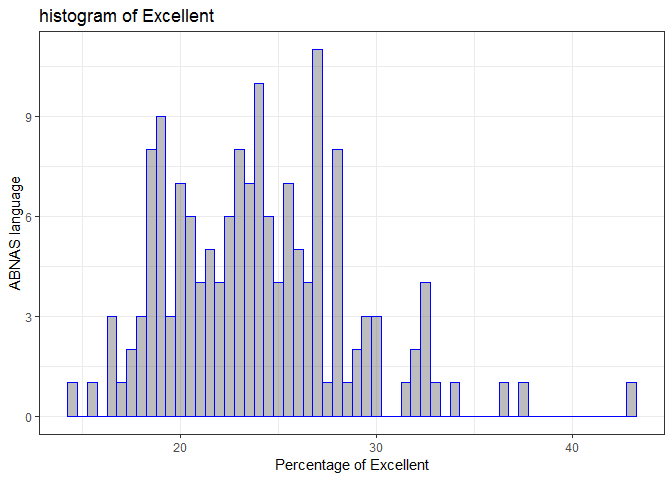
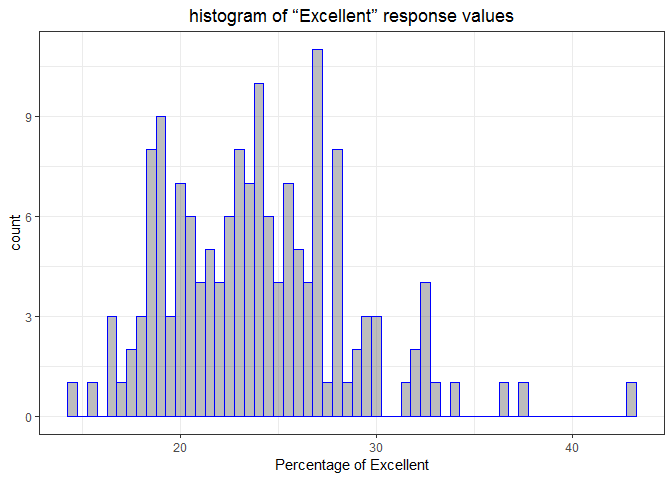
made some changes to the plot in problem 3.

Changed region(s): [[0.0625, 0.0, 0.7812, 0.0625], [0.0, 0.375, 0.0312, 0.5938]]

diff --git a/p8105_hw2_hh2767.md b/p8105_hw2_hh2767.md
@@ -123,12 +123,20 @@ pptn_2016 = readxl::read_excel(".\\data\\HealthyHarborWaterWheelTotals2017-9-26.
   filter(!is.na(x_1)) %>% 
   mutate(year = 2016)
 
-pptn = bind_rows(pptn_2016, pptn_2017)
+pptn_2018 = readxl::read_excel(".\\data\\HealthyHarborWaterWheelTotals2018-7-28.xlsx", sheet = "2018 Precipitation") %>% 
+  janitor::clean_names() %>% 
+  filter(!is.na(precipitation_in)) %>% 
+  filter(!is.na(x_1)) %>% 
+  mutate(year = 2018)
+
+pptn = bind_rows(pptn_2016, pptn_2017, pptn_2018)
 
 pptn = filter(pptn, pptn$precipitation_in != "Month")
 pptn$precipitation_in = as.integer(pptn$precipitation_in)
 pptn_precipitation_in = tibble(pptn$precipitation_in)
 pptn$precipitation_in = apply(pptn_precipitation_in, 2, function(x) month.name[x])
+colnames(pptn)[2] = "amount"
+pptn$amount = as.numeric(pptn$amount)
 ```
 
 Problem 3
@@ -191,7 +199,7 @@ The following chunk creates a histogram of “Excellent” response values in th
 ``` r
 ggplot(brfss_smart_only2002, aes(x = excellent)) + 
   geom_histogram(alpha = .4, binwidth = .5, color = "blue") + xlab("Percentage of Excellent") +
-ylab("ABNAS language") + ggtitle("histogram of Excellent") + theme(plot.title = element_text(hjust = 0.5)) +  theme_bw() 
+ylab("count") + ggtitle("histogram of “Excellent” response values") +  theme_bw() + theme(plot.title = element_text(hjust = 0.5))
 ```
 
     ## Warning: Removed 2 rows containing non-finite values (stat_bin).
@@ -203,8 +211,8 @@ The following chunk creates a scatterplot showing the proportion of “Excellent
 ``` r
 brfss_NY_Q_county = filter(brfss_smart2010, location_desc == "NY - New York County" | location_desc == "NY - Queens County")
 ggplot(brfss_NY_Q_county, aes(x = year, y = excellent)) + 
-  geom_point(aes(color = location_desc)) + ylab("Percentage of Excellent") +  theme_bw() + 
-  theme(legend.position = "bottom")
+  geom_point(aes(color = location_desc)) + ylab("Percentage of Excellent") + ggtitle("scatterplot of “Excellent” response") + theme_bw() + 
+  theme(legend.position = "bottom") + theme(plot.title = element_text(hjust = 0.5))
 ```
 
 ![](p8105_hw2_hh2767_files/figure-markdown_github/unnamed-chunk-13-1.png)
